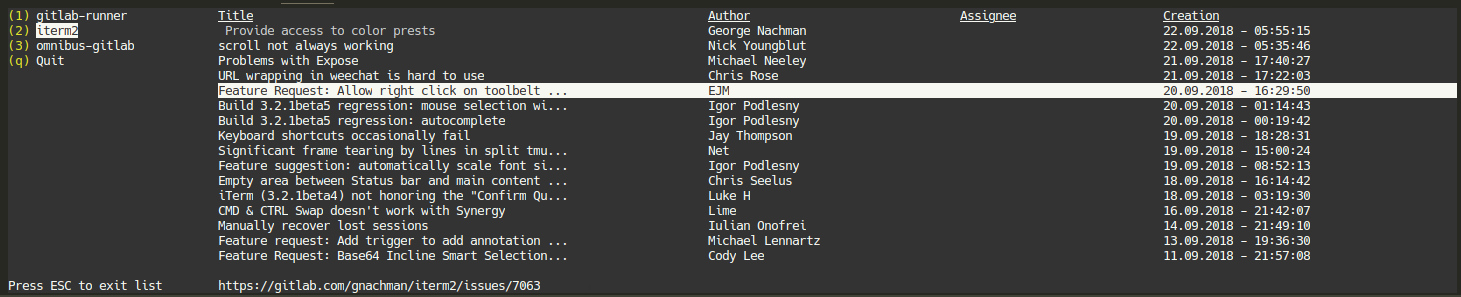
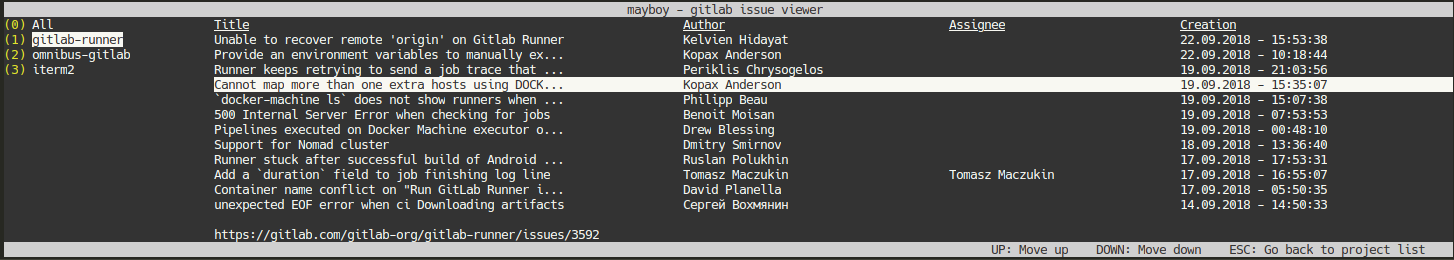
Redisgn header and footer

diff --git a/elements/footer.go b/elements/footer.go
@@ -1,56 +1,92 @@
 package elements
 
 import (
+	"fmt"
+
+	"github.com/gdamore/tcell"
 	"github.com/rivo/tview"
 	"github.com/windler/mayboy/events"
-	"github.com/windler/mayboy/gitlab"
 )
 
-//Footer show contextual information
+//Footer shows key hints
 type Footer struct {
-	footer        *tview.TextView
-	em            *events.EventManager
-	issueRetriver SelectedIssueRetriever
+	footer *tview.TextView
+	em     *events.EventManager
 }
 
-//SelectedIssueRetriever return the current selected issue
-type SelectedIssueRetriever interface {
-	GetSelectedIssue() *gitlab.Issue
-}
-
-//NewFooter creates a footer
-func NewFooter(em *events.EventManager, issueRetriver SelectedIssueRetriever) Footer {
+//NewFooter creates a new Header
+func NewFooter(em *events.EventManager) Footer {
 	footer := tview.NewTextView()
-	footer.SetBorderPadding(1, 0, 0, 0)
+	footer.SetBackgroundColor(tcell.ColorLightGray)
+	footer.SetTextColor(tcell.ColorBlack)
+	footer.SetTextAlign(tview.AlignRight)
 
 	f := Footer{
-		footer:        footer,
-		em:            em,
-		issueRetriver: issueRetriver,
+		footer: footer,
+		em:     em,
 	}
 
 	f.registerListeners()
+	f.showProjectListText()
 
 	return f
 }
 
-func (f *Footer) registerListeners() {
-	f.em.Listen(events.ProjectSelected, f.showWebURL)
-	f.em.Listen(events.IssueTableLineSelectionChanged, f.showWebURL)
-	f.em.Listen(events.IssueTableRefreshed, f.showWebURL)
+func (f *Footer) showProjectListText() {
+	f.footer.SetText(getCommandString([]cmd{
+		cmd{
+			cmd:  "UP",
+			desc: "Move up",
+		},
+		cmd{
+			cmd:  "DOWN",
+			desc: "Move down",
+		},
+		cmd{
+			cmd:  "ENTER",
+			desc: "Select project",
+		},
+		cmd{
+			cmd:  "<n>",
+			desc: "Select project (n)",
+		},
+		cmd{
+			cmd:  "ESC",
+			desc: "Quit application",
+		},
+	}))
+}
 
-	f.em.Listen(events.IssueTableFocusLost, func() {
-		f.footer.SetText("")
+func (f *Footer) registerListeners() {
+	f.em.Listen(events.IssueTableFocusLost, f.showProjectListText)
+	f.em.Listen(events.ProjectSelected, func() {
+		f.footer.SetText(getCommandString([]cmd{
+			cmd{
+				cmd:  "UP",
+				desc: "Move up",
+			},
+			cmd{
+				cmd:  "DOWN",
+				desc: "Move down",
+			},
+			cmd{
+				cmd:  "ESC",
+				desc: "Go back to project list",
+			},
+		}))
 	})
 }
 
-func (f *Footer) showWebURL() {
-	issue := f.issueRetriver.GetSelectedIssue()
-	if issue != nil {
-		f.footer.SetText(issue.WebURL)
-	} else {
-		f.footer.SetText("")
+type cmd struct {
+	cmd, desc string
+}
+
+func getCommandString(commands []cmd) string {
+	result := ""
+	for _, c := range commands {
+		result += fmt.Sprintf("%s: %s\t", c.cmd, c.desc)
 	}
+	return result
 }
 
 //GetPrimitive returns the rivo/tview primtive

diff --git a/elements/tableInfo.go b/elements/tableInfo.go
@@ -1,0 +1,59 @@
+package elements
+
+import (
+	"github.com/rivo/tview"
+	"github.com/windler/mayboy/events"
+	"github.com/windler/mayboy/gitlab"
+)
+
+//TableInfo show contextual information
+type TableInfo struct {
+	footer        *tview.TextView
+	em            *events.EventManager
+	issueRetriver SelectedIssueRetriever
+}
+
+//SelectedIssueRetriever return the current selected issue
+type SelectedIssueRetriever interface {
+	GetSelectedIssue() *gitlab.Issue
+}
+
+//NewTableInfo creates a TableInfo
+func NewTableInfo(em *events.EventManager, issueRetriver SelectedIssueRetriever) TableInfo {
+	footer := tview.NewTextView()
+	footer.SetBorderPadding(1, 0, 0, 0)
+
+	f := TableInfo{
+		footer:        footer,
+		em:            em,
+		issueRetriver: issueRetriver,
+	}
+
+	f.registerListeners()
+
+	return f
+}
+
+func (f *TableInfo) registerListeners() {
+	f.em.Listen(events.ProjectSelected, f.showWebURL)
+	f.em.Listen(events.IssueTableLineSelectionChanged, f.showWebURL)
+	f.em.Listen(events.IssueTableRefreshed, f.showWebURL)
+
+	f.em.Listen(events.IssueTableFocusLost, func() {
+		f.footer.SetText("")
+	})
+}
+
+func (f *TableInfo) showWebURL() {
+	issue := f.issueRetriver.GetSelectedIssue()
+	if issue != nil {
+		f.footer.SetText(issue.WebURL)
+	} else {
+		f.footer.SetText("")
+	}
+}
+
+//GetPrimitive returns the rivo/tview primtive
+func (f *TableInfo) GetPrimitive() tview.Primitive {
+	return f.footer
+}

diff --git a/elements/grid.go b/elements/grid.go
@@ -8,16 +8,21 @@ type Grid struct {
 }
 
 //CreateGrid creates a new Grid
-func CreateGrid(mainLeft, mainRight, footerLeft, footerRight tview.Primitive) Grid {
+func CreateGrid(header, mainLeft, mainRight, mainBottomRight, footer tview.Primitive) Grid {
 	g := Grid{}
+
 	g.grid = tview.NewGrid().
-		SetRows(0, 2).
+		SetRows(1, 0, 2, 1).
 		SetColumns(30, 0)
 
-	g.grid.AddItem(mainLeft, 0, 0, 1, 1, 0, 100, true)
-	g.grid.AddItem(mainRight, 0, 1, 1, 1, 0, 100, false)
-	g.grid.AddItem(footerLeft, 1, 0, 1, 1, 0, 100, false)
-	g.grid.AddItem(footerRight, 1, 1, 1, 1, 0, 100, false)
+	g.grid.AddItem(header, 0, 0, 1, 2, 0, 100, false)
+
+	g.grid.AddItem(mainLeft, 1, 0, 1, 1, 0, 100, true)
+	g.grid.AddItem(mainRight, 1, 1, 1, 1, 0, 100, false)
+	g.grid.AddItem(tview.NewTextView(), 2, 0, 1, 1, 0, 100, false)
+	g.grid.AddItem(mainBottomRight, 2, 1, 1, 1, 0, 100, false)
+
+	g.grid.AddItem(footer, 3, 0, 1, 2, 0, 100, false)
 
 	return g
 }

diff --git a/elements/header.go b/elements/header.go
@@ -1,0 +1,31 @@
+package elements
+
+import (
+	"github.com/gdamore/tcell"
+	"github.com/rivo/tview"
+)
+
+//Header shows app info
+type Header struct {
+	header *tview.TextView
+}
+
+//NewHeader creates a new Header
+func NewHeader() Header {
+	header := tview.NewTextView()
+	header.SetBackgroundColor(tcell.ColorLightGray)
+	header.SetTextColor(tcell.ColorBlack)
+	header.SetText("mayboy - gitlab issue viewer")
+	header.SetTextAlign(tview.AlignCenter)
+
+	h := Header{
+		header: header,
+	}
+
+	return h
+}
+
+//GetPrimitive returns the rivo/tview primtive
+func (h *Header) GetPrimitive() tview.Primitive {
+	return h.header
+}

diff --git a/elements/projectList.go b/elements/projectList.go
@@ -18,6 +18,10 @@ func CreateProjectList(projects map[string][]gitlab.Issue, em *events.EventManag
 	projectList := tview.NewList()
 	projectList.ShowSecondaryText(false)
 
+	projectList.SetDoneFunc(func() {
+		em.Fire(events.ExitRequested)
+	})
+
 	if _, found := projects["All"]; found {
 		projectList.AddItem("All", "", '0', func() {
 			em.Fire(events.ProjectSelected)
@@ -35,10 +39,6 @@ func CreateProjectList(projects map[string][]gitlab.Issue, em *events.EventManag
 		})
 		i++
 	}
-
-	projectList.AddItem("Quit", "", 'q', func() {
-		em.Fire(events.ExitRequested)
-	})
 
 	return ProjectList{
 		projectList: projectList,

diff --git a/main.go b/main.go
@@ -16,17 +16,19 @@ func main() {
 	em := events.NewEventManager()
 	app := tview.NewApplication()
 
-	hint := elements.NewHint(em)
+	header := elements.NewHeader()
 
 	projectList := elements.CreateProjectList(issues, em)
 	issueTable := elements.CreateIssueTable(em, &projectList)
+	tableInfo := elements.NewTableInfo(em, &issueTable)
 
-	footer := elements.NewFooter(em, &issueTable)
+	footer := elements.NewFooter(em)
 
 	grid := elements.CreateGrid(
+		header.GetPrimitive(),
 		projectList.GetPrimitive(),
 		issueTable.GetPrimitive(),
-		hint.GetPrimitive(),
+		tableInfo.GetPrimitive(),
 		footer.GetPrimitive(),
 	)
 
